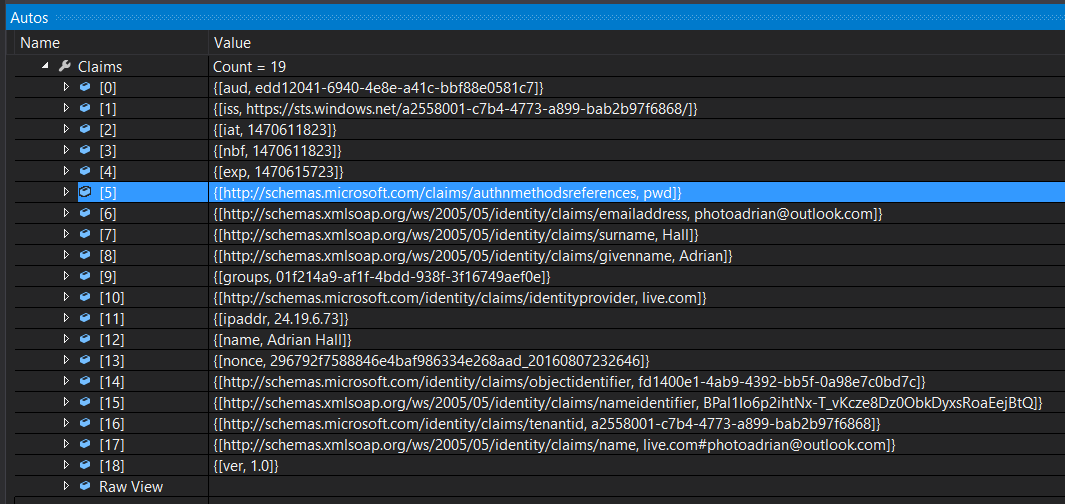
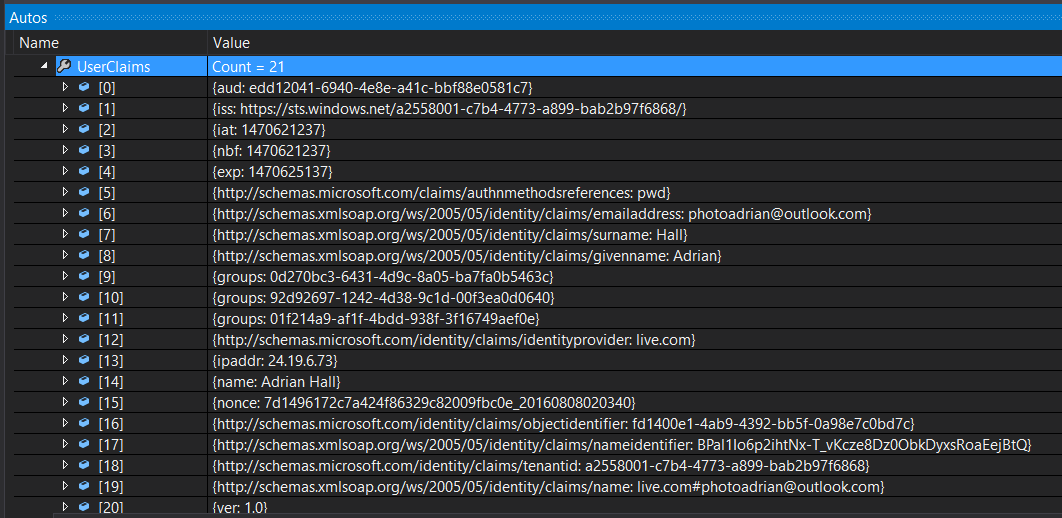
Finished off Authorization via Claims

diff --git a/Chapter2/Backend/Helpers/AuthorizeClaimsAttribute.cs b/Chapter2/Backend/Helpers/AuthorizeClaimsAttribute.cs
@@ -1,0 +1,40 @@
+using System.Linq;
+using System.Net;
+using System.Security.Principal;
+using System.Threading;
+using System.Threading.Tasks;
+using System.Web.Http;
+using System.Web.Http.Controllers;
+using System.Web.Http.Filters;
+using Microsoft.Azure.Mobile.Server.Authentication;
+
+namespace Backend.Helpers
+{
+    public class AuthorizeClaimsAttribute : AuthorizationFilterAttribute
+    {
+        string Type { get; }
+        string Value { get; }
+
+        public AuthorizeClaimsAttribute(string type, string value)
+        {
+            Type = type;
+            Value = value;
+        }
+
+        public override async Task OnAuthorizationAsync(HttpActionContext actionContext, CancellationToken cancellationToken)
+        {
+            var request = actionContext.Request;
+            var user = actionContext.RequestContext.Principal;
+            if (user != null)
+            {
+                var identity = await user.GetAppServiceIdentityAsync<AzureActiveDirectoryCredentials>(request);
+                var countOfMatchingClaims = identity.UserClaims
+                    .Where(c => c.Type.Equals(Type) && c.Value.Equals(Value))
+                    .Count();
+                if (countOfMatchingClaims > 0) return;
+
+            }
+            throw new HttpResponseException(HttpStatusCode.Unauthorized);
+        }
+    }
+}

diff --git a/Chapter2/Backend/Controllers/TodoItemController.cs b/Chapter2/Backend/Controllers/TodoItemController.cs
@@ -3,15 +3,14 @@ using System.Threading.Tasks;
 using System.Web.Http;
 using System.Web.Http.Controllers;
 using System.Web.Http.OData;
-using Microsoft.Azure.Mobile.Server;
 using Backend.DataObjects;
+using Backend.Helpers;
 using Backend.Models;
-using System.Security.Principal;
-using Microsoft.Azure.Mobile.Server.Authentication;
+using Microsoft.Azure.Mobile.Server;
 
 namespace Backend.Controllers
 {
-    [Authorize]
+    [AuthorizeClaims("groups", "01f214a9-af1f-4bdd-938f-3f16749aef0e")]
     public class TodoItemController : TableController<TodoItem>
     {
         protected override void Initialize(HttpControllerContext controllerContext)

diff --git a/docs/2_authentication.md b/docs/2_authentication.md
@@ -1966,7 +1966,7 @@ We can prevent a new record being added by adjusting the `PostTodoItem()` method
 ```csharp
 public async Task<IHttpActionResult> PostTodoItem(TodoItem item)
 {
-    if (!IsAuthorized())
+    if (!await IsAuthorizedAsync())
     {
         return Unauthorized();
     }
@@ -1989,7 +1989,59 @@ public async Task<IHttpActionResult> PostTodoItem(TodoItem item)
 The `[AuthorizeClaims()]` attribute does not exist, so we have to provide it ourselves:
 
 ```csharp
+using System.Linq;
+using System.Net;
+using System.Security.Principal;
+using System.Threading;
+using System.Threading.Tasks;
+using System.Web.Http;
+using System.Web.Http.Controllers;
+using System.Web.Http.Filters;
+using Microsoft.Azure.Mobile.Server.Authentication;
+
+namespace Backend.Helpers
+{
+    public class AuthorizeClaimsAttribute : AuthorizationFilterAttribute
+    {
+        string Type { get; }
+        string Value { get; }
+
+        public AuthorizeClaimsAttribute(string type, string value)
+        {
+            Type = type;
+            Value = value;
+        }
+
+        public override async Task OnAuthorizationAsync(HttpActionContext actionContext, CancellationToken cancellationToken)
+        {
+            var request = actionContext.Request;
+            var user = actionContext.RequestContext.Principal;
+            if (user != null)
+            {
+                var identity = await user.GetAppServiceIdentityAsync<AzureActiveDirectoryCredentials>(request);
+                var countOfMatchingClaims = identity.UserClaims
+                    .Where(c => c.Type.Equals(Type) && c.Value.Equals(Value))
+                    .Count();
+                if (countOfMatchingClaims > 0) return;
+
+            }
+            throw new HttpResponseException(HttpStatusCode.Unauthorized);
+        }
+    }
+}
 ```
+
+This is the same type of authorization filter attribute that the officially provided `AuthorizeAttribute` is based on.  However, the AuthorizeAttribute is synchronous.  We require an asynchronous version of the attribute, so we cannot use a sub-class of the AuthorizeAttribute.  Aside from that note, this uses virtually the same code that we used in the `IsAythorizedAsync()` method we developped earlier.
+
+We can now use this attribute for testing any claim.  For example, our claims has the identity provider as a claim.  We can use the following:
+
+```csharp
+[AuthorizeClaims("http://schemas.microsoft.com/identity/claims/identityprovider", "live.com")]
+```
+
+> If you want to test other claims that are not provided, you can enable the **Read Directory Data** permission in the Azure Active Directory permissions and do a query against the Azure Active Directory.  You should think about caching results if this is the case.
+
+## Caching Tokens
 
 ## Refresh Tokens
 
